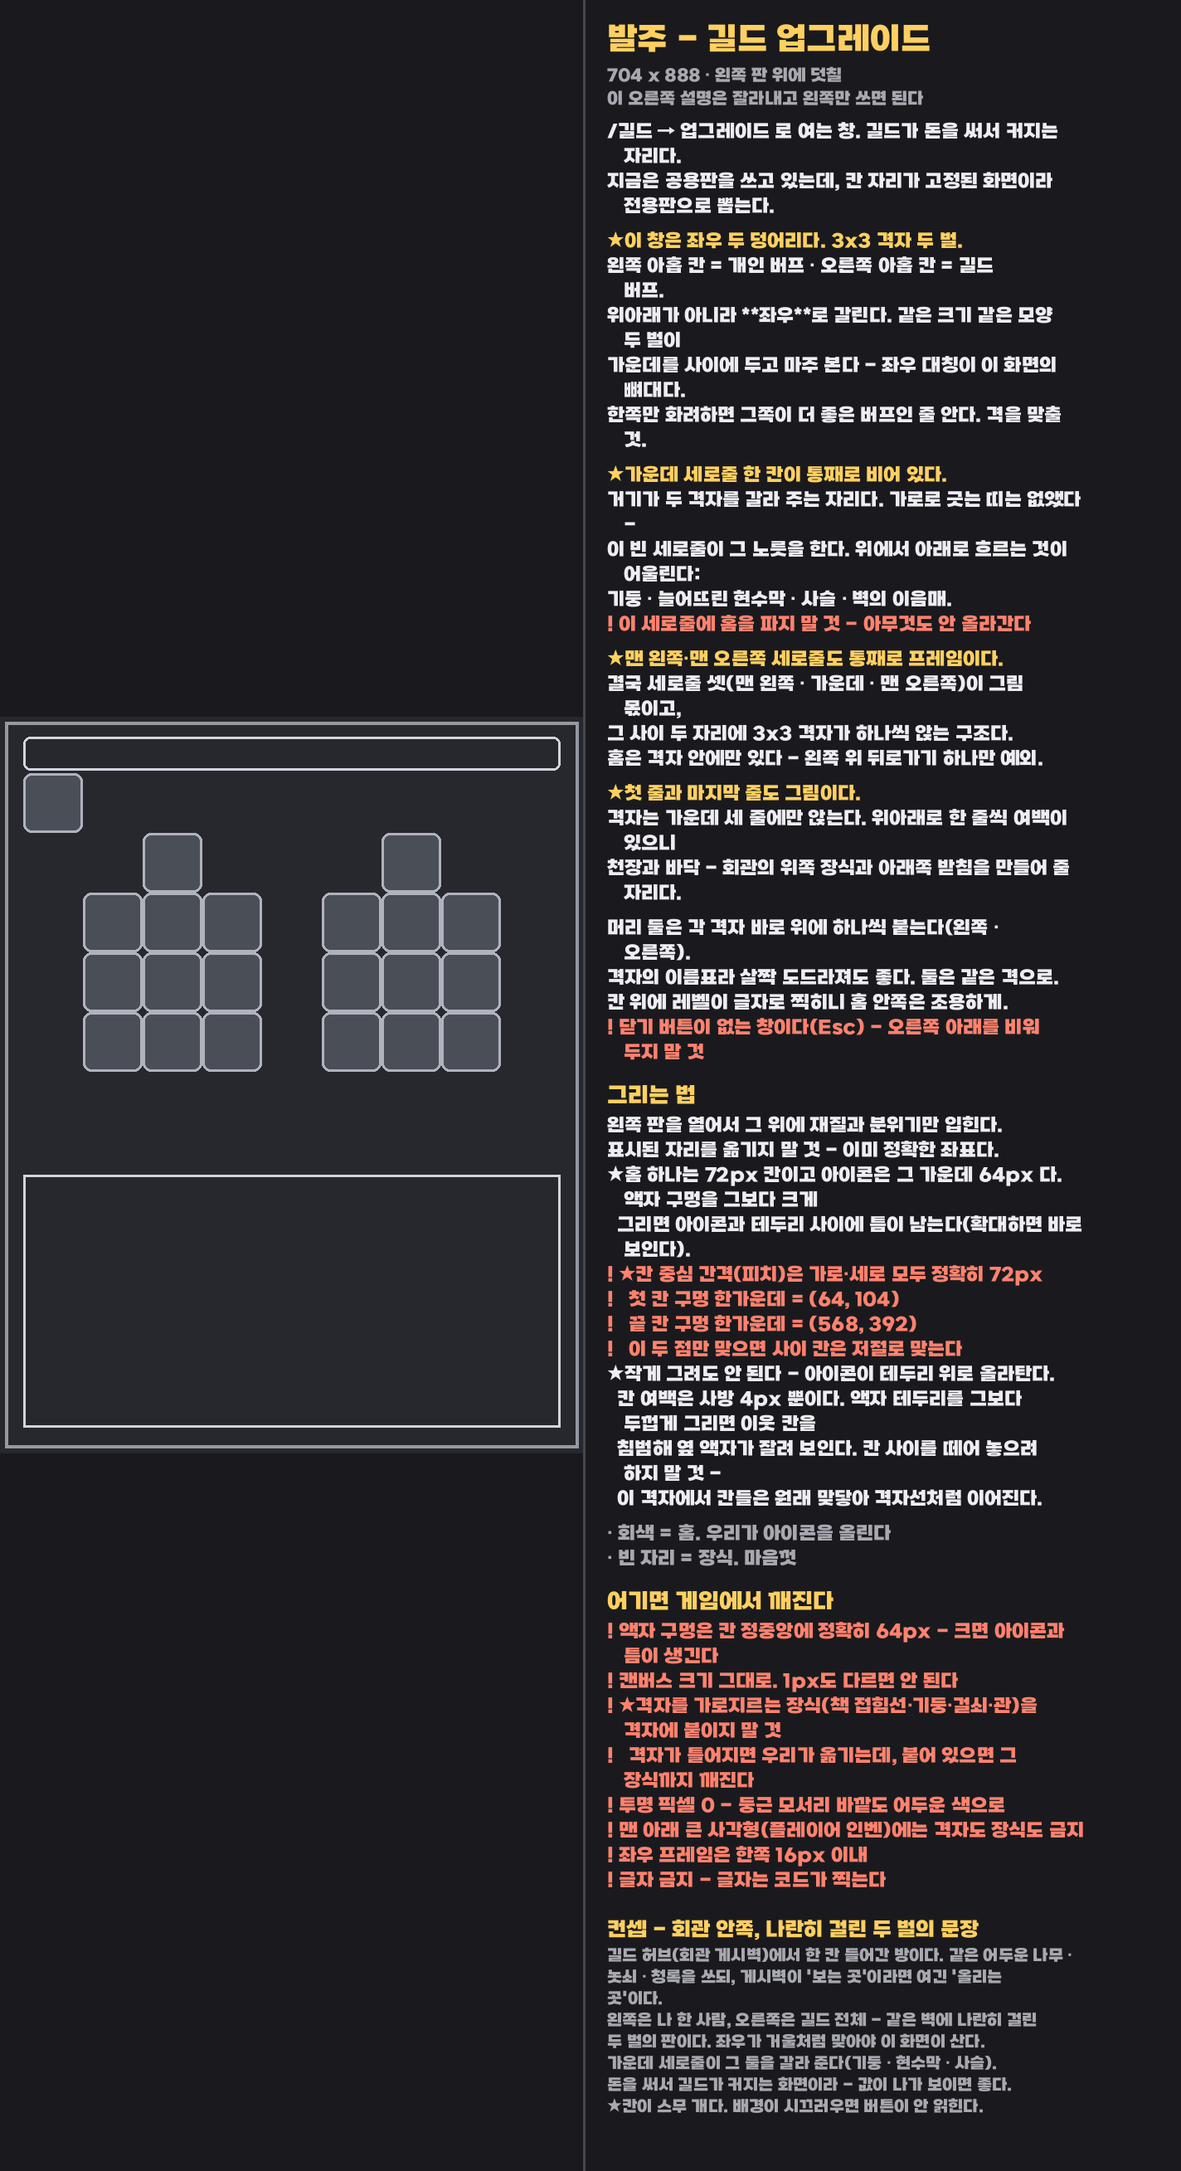
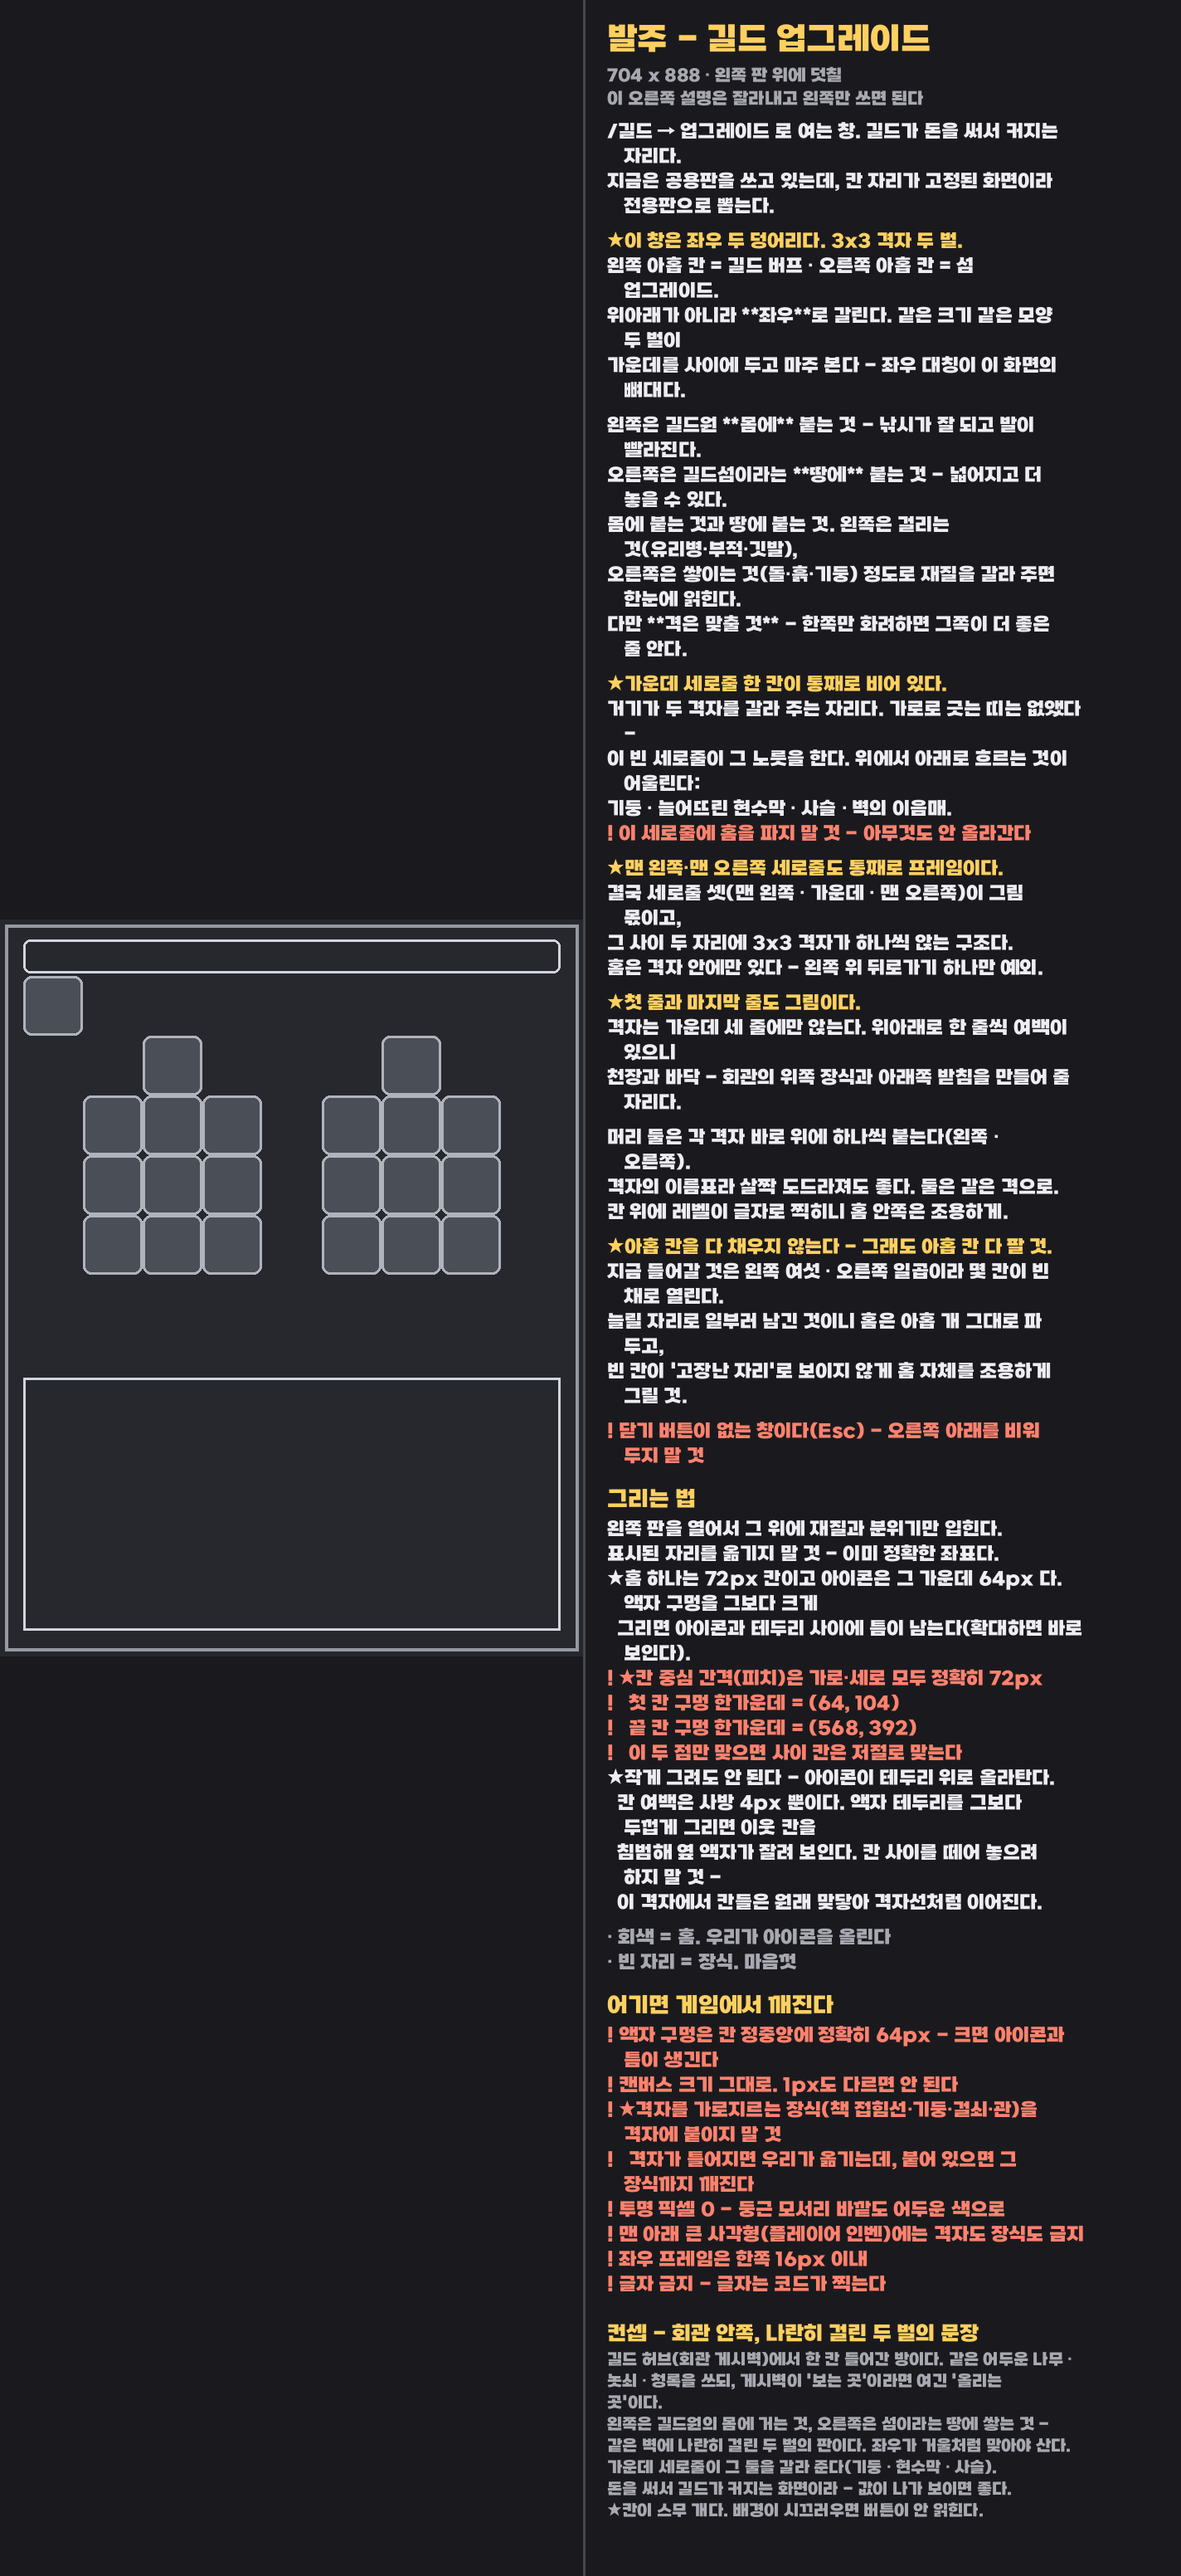
그룹은 둘이다 — 왼쪽 길드버프 / 오른쪽 섬 업그레이드
"개인 버프"라는 세 번째 그룹은 없었다. 길드 버프가 곧 길드원 개개인에게
걸리는 버프라 같은 말이다. 내가 코드의 "길드원 버프"를 개인/길드 둘로 잘못
읽고 격자 두 벌을 거기에 배정했었다.

슬롯 배치는 그대로 두고 라벨만 바꾼다:
  왼쪽 3x3  = 길드 버프      (19 20 21 / 28 29 30 / 37 38 39)
  오른쪽 3x3 = 섬 업그레이드  (23 24 25 / 32 33 34 / 41 42 43)
  머리 11 = 버프 · 15 = 섬

좌우 대비가 오히려 선명해졌다. 왼쪽은 길드원 몸에 붙는 것(낚시가 잘 되고
발이 빨라진다), 오른쪽은 섬이라는 땅에 붙는 것(넓어지고 더 놓을 수 있다).
걸리는 것 vs 쌓이는 것으로 재질을 갈라 달라고 발주서에 적었다.

★칸이 남는다 — 격자는 9칸씩인데 실제 항목은 왼쪽 6종·오른쪽 7종이라
왼쪽 3칸·오른쪽 2칸이 빈 채로 열린다. 늘릴 자리로 남겨 두는 것이라
홈은 아홉 개 다 파되 빈 칸이 '고장난 자리'로 안 보이게 조용히 그려 달라고
발주서에 명시했다. 채울 계획이 없으면 왼쪽을 3x2 로 줄이는 게 낫다.

Claude-Session: https://claude.ai/code/session_01PcCU7rcvsfcbu47hBNa481

Changed region(s): [[0.0, 0.0, 0.927, 0.9904], [0.4635, 0.619, 0.4944, 0.6809], [0.0, 0.619, 0.0309, 0.6809]]

diff --git a/gui-forge/make_order_sheets.py b/gui-forge/make_order_sheets.py
@@ -299,10 +299,15 @@ SHEETS = {
         ("p", "지금은 공용판을 쓰고 있는데, 칸 자리가 고정된 화면이라 전용판으로 뽑는다."),
         ("s", ""),
         ("hi", "★이 창은 좌우 두 덩어리다. 3x3 격자 두 벌."),
-        ("p", "왼쪽 아홉 칸 = 개인 버프 · 오른쪽 아홉 칸 = 길드 버프."),
+        ("p", "왼쪽 아홉 칸 = 길드 버프 · 오른쪽 아홉 칸 = 섬 업그레이드."),
         ("p", "위아래가 아니라 **좌우**로 갈린다. 같은 크기 같은 모양 두 벌이"),
         ("p", "가운데를 사이에 두고 마주 본다 - 좌우 대칭이 이 화면의 뼈대다."),
-        ("p", "한쪽만 화려하면 그쪽이 더 좋은 버프인 줄 안다. 격을 맞출 것."),
+        ("s", ""),
+        ("p", "왼쪽은 길드원 **몸에** 붙는 것 - 낚시가 잘 되고 발이 빨라진다."),
+        ("p", "오른쪽은 길드섬이라는 **땅에** 붙는 것 - 넓어지고 더 놓을 수 있다."),
+        ("p", "몸에 붙는 것과 땅에 붙는 것. 왼쪽은 걸리는 것(유리병·부적·깃발),"),
+        ("p", "오른쪽은 쌓이는 것(돌·흙·기둥) 정도로 재질을 갈라 주면 한눈에 읽힌다."),
+        ("p", "다만 **격은 맞출 것** - 한쪽만 화려하면 그쪽이 더 좋은 줄 안다."),
         ("s", ""),
         ("hi", "★가운데 세로줄 한 칸이 통째로 비어 있다."),
         ("p", "거기가 두 격자를 갈라 주는 자리다. 가로로 긋는 띠는 없앴다 -"),
@@ -322,6 +327,12 @@ SHEETS = {
         ("p", "머리 둘은 각 격자 바로 위에 하나씩 붙는다(왼쪽 · 오른쪽)."),
         ("p", "격자의 이름표라 살짝 도드라져도 좋다. 둘은 같은 격으로."),
         ("p", "칸 위에 레벨이 글자로 찍히니 홈 안쪽은 조용하게."),
+        ("s", ""),
+        ("hi", "★아홉 칸을 다 채우지 않는다 - 그래도 아홉 칸 다 팔 것."),
+        ("p", "지금 들어갈 것은 왼쪽 여섯 · 오른쪽 일곱이라 몇 칸이 빈 채로 열린다."),
+        ("p", "늘릴 자리로 일부러 남긴 것이니 홈은 아홉 개 그대로 파 두고,"),
+        ("p", "빈 칸이 '고장난 자리'로 보이지 않게 홈 자체를 조용하게 그릴 것."),
+        ("s", ""),
         ("w", "닫기 버튼이 없는 창이다(Esc) - 오른쪽 아래를 비워 두지 말 것"),
     ]),
 }
@@ -372,8 +383,8 @@ THEME_QUEST = ("컨셉 - 여행자의 수첩과 마을 게시판",
 THEME_GUILD_UP = ("컨셉 - 회관 안쪽, 나란히 걸린 두 벌의 문장",
                   "길드 허브(회관 게시벽)에서 한 칸 들어간 방이다. 같은 어두운 나무 ·",
                   "놋쇠 · 청록을 쓰되, 게시벽이 '보는 곳'이라면 여긴 '올리는 곳'이다.",
-                  "왼쪽은 나 한 사람, 오른쪽은 길드 전체 - 같은 벽에 나란히 걸린",
-                  "두 벌의 판이다. 좌우가 거울처럼 맞아야 이 화면이 산다.",
+                  "왼쪽은 길드원의 몸에 거는 것, 오른쪽은 섬이라는 땅에 쌓는 것 -",
+                  "같은 벽에 나란히 걸린 두 벌의 판이다. 좌우가 거울처럼 맞아야 산다.",
                   "가운데 세로줄이 그 둘을 갈라 준다(기둥 · 현수막 · 사슬).",
                   "돈을 써서 길드가 커지는 화면이라 - 값이 나가 보이면 좋다.",
                   "★칸이 스무 개다. 배경이 시끄러우면 버튼이 안 읽힌다.")

diff --git a/gui-forge/make_page_layouts.py b/gui-forge/make_page_layouts.py
@@ -186,7 +186,9 @@ PAGES = {
     #    코드는 위아래로 갈린 구조다 — 위 2줄 길드원 버프(10~15) + 가로 구분선(27~35)
     #    + 아래 2줄 섬 업그레이드(45~51). 그 배치는 왼쪽으로 쏠려 있었고(양끝 세로줄을
     #    침범), 가로 구분선이 화면을 두 동강 내 답답했다.
-    #    ⇒ **좌우 대칭 3x3 두 격자**로 다시 짠다. 왼쪽 = 개인 버프 / 오른쪽 = 길드 버프.
+    #    ⇒ **좌우 대칭 3x3 두 격자**로 다시 짠다. 왼쪽 = 길드 버프 / 오른쪽 = 섬 업그레이드.
+    #    (※ "개인 버프"라는 세 번째 그룹은 없다 — 길드 버프가 곧 길드원 개개인에게
+    #       걸리는 버프라 같은 말이다. 그룹은 둘뿐이고, 위아래가 아니라 좌우로 나눈다.)
     #
     # 왜 3+1+3 이 딱 맞나 — 양끝 세로줄(col 0·8)을 프레임으로 비우면 가운데 7열이 남고,
     #   거기에 3(격자) + 1(홈통) + 3(격자) 이 정확히 들어간다. **가운데 세로줄(col 4)이
@@ -194,20 +196,25 @@ PAGES = {
     #   (그래서 회색 유리판 구분선은 폐기. 유리판이 그림을 덮던 문제도 같이 사라진다.)
     #
     #   0  = 뒤로가기(ARROW). col 0 을 쓰는 유일한 예외
-    #   11 = 「개인 버프」 머리   (왼쪽 격자 중심 col 2 바로 위)
-    #   15 = 「길드 버프」 머리   (오른쪽 격자 중심 col 6 바로 위)
+    #   11 = 「길드 버프」 머리     (왼쪽 격자 중심 col 2 바로 위)
+    #   15 = 「섬 업그레이드」 머리 (오른쪽 격자 중심 col 6 바로 위)
     #   왼쪽 격자 9칸: 19 20 21 / 28 29 30 / 37 38 39   (col 1~3, r2~r4)
     #   오른쪽 격자 9칸: 23 24 25 / 32 33 34 / 41 42 43 (col 5~7, r2~r4)
     #   빈 세로줄 col 4 = 4 13 22 31 40 49 — 여기 홈을 파지 말 것
     #   r0·r5 는 뒤로가기 말고는 전부 그림 몫이다.
     #
+    # ★칸 수와 항목 수가 안 맞는다 — 격자는 9칸씩인데 실제 항목은 왼쪽 6종·오른쪽 7종이다.
+    #   왼쪽 3칸 · 오른쪽 2칸이 빈다. 일부러 남긴 자리다(버프·시설을 늘릴 여지).
+    #   빈 홈은 게임에서 '잠긴 칸'처럼 보이므로, 채울 계획이 없으면 격자를
+    #   3x2(왼쪽)로 줄이는 편이 낫다 — 그때는 이 표와 발주서를 같이 고칠 것.
+    #
     #   ⇒ 그림을 받은 뒤 GuildGui.openUpgradeHub / clickUpgradeHub 를 이 배치로
     #     다시 짜야 한다. 슬롯 번호가 하나도 안 겹치므로 부분 수정이 아니라 재작성이다.
     "guildupgrade": (6, {
         0: ("홈", "뒤로"),
-        11: ("홈", "개인 머리"), 15: ("홈", "길드 머리"),
-        **{s: ("홈", "개인") for s in (19, 20, 21, 28, 29, 30, 37, 38, 39)},
-        **{s: ("홈", "길드") for s in (23, 24, 25, 32, 33, 34, 41, 42, 43)},
+        11: ("홈", "버프 머리"), 15: ("홈", "섬 머리"),
+        **{s: ("홈", "버프") for s in (19, 20, 21, 28, 29, 30, 37, 38, 39)},
+        **{s: ("홈", "섬") for s in (23, 24, 25, 32, 33, 34, 41, 42, 43)},
     }, "장식"),
 }
 
